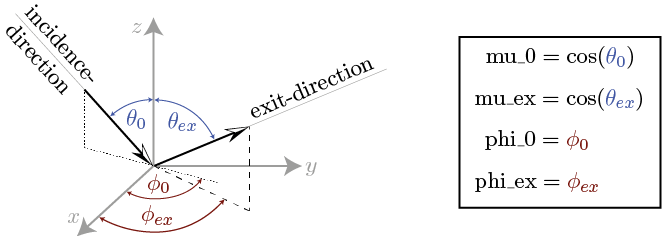
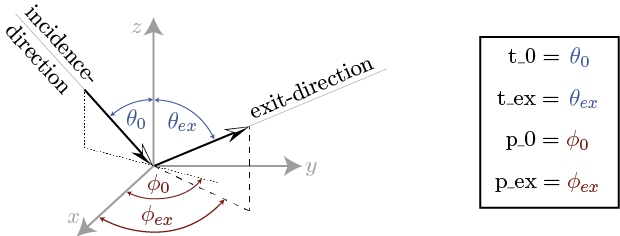
updates on model_specification and theory chapters

diff --git a/doc/theory.rst b/doc/theory.rst
@@ -1,12 +1,12 @@
 Theory
 ======
 
-The rt1 module provides a method for calculating the scattered radiation from a 
+The RT1 module provides a method for calculating the scattered radiation from a 
 uniformly illuminated rough surface covered by a homogeneous layer of tenuous media.
 The following sections are intended to give a general overview of the underlying theory of the
-rt1 module. A more general discussion on the derivation of the used results can be found in [QuWa16]_.
+RT1 module. A more general discussion on the derivation of the used results can be found in [QuWa16]_.
 Details on how to define the scattering properties of the covering layer and the ground surface
-within the rt1-module are given in :ref:`cha_model_specification`.
+within the RT1-module are given in :ref:`cha_model_specification`.
 
 
 
@@ -14,8 +14,8 @@ The utilized theoretical framework is based on applying the Radiative Transfer E
 the geometry shown in :numref:`problem_geometry`.
 
 .. math::
-   \cos(\theta) \frac{\partial I_f(\textbf{r},\theta,\phi)}{\partial r} = -\kappa_{ex} I_f(\textbf{r},\theta,\phi)
-   + \kappa_s \int\limits_{0}^{2\pi}\int\limits_{0}^{\pi/2} I_f(\textbf{r},\theta',\phi') \hat{p}(\theta,\phi,\theta',\phi') \sin(\theta')d\theta' d\phi'
+   \cos(\theta) \frac{\partial I_f(r,\theta,\phi)}{\partial r} = -\kappa_{ex} I_f(r,\theta,\phi)
+   + \kappa_s \int\limits_{0}^{2\pi}\int\limits_{0}^{\pi/2} I_f(r,\theta',\phi') \hat{p}(\theta,\phi,\theta',\phi') \sin(\theta') d\theta' d\phi'
    :label: RTE
 
 
@@ -23,10 +23,21 @@ The individual variables are hereby defined as follows:
 
 - :math:`\theta` denotes the azimuth angle in a spherical coordinate system
 - :math:`\phi` denotes the polar angle in a spherical coordinate system
-- :math:`\mathbf{r}` denotes the distance-vector within the covering layer
-- :math:`I_f(\textbf{r},\theta,\phi)` denotes the specific intensity at a distance :math:`\mathbf{r}` within the covering layer propagating in direction :math:`(\theta,\phi)`.
+- :math:`r` denotes the distance within the covering layer
+- :math:`I_f(r,\theta,\phi)` denotes the specific intensity at a distance :math:`r` within the covering layer propagating in direction :math:`(\theta,\phi)`.
 - :math:`\kappa_{ex}` denotes the extinction-coefficient (i.e. extinction cross section per unit volume)
 - :math:`\hat{p}(\theta,\phi,\theta',\phi')` denotes the scattering phase-function of the constituents of the covering layer
+
+.. note::
+	To remain consistent with [QuWa16]_, the arguments of the functions :math:`\hat{p}(\theta,\phi,\theta',\phi')` and :math:`BRDF(\theta,\phi,\theta',\phi')` are defined as angles 
+	with respect to a spherical coordinate system in the following discussion. Within the RT1-module however, the functions are defined with respect to the associated zenith-angles!
+ 
+	A relationship between the module-functions and the functions within the subsequent discussion is therefore given by:
+ 
+	:code:`SRF.BRDF(t_0,t_ex,p_0,p_ex)` :math:`\hat{=} ~BRDF(\pi - \theta_0, \phi_0, \theta_{ex},\phi_{ex}) \quad` and :math:`\mbox{}\quad` :code:`V.p(t_0,t_ex,p_0,p_ex)` :math:`\hat{=} ~\hat{p}(\pi - \theta_0, \phi_0, \theta_{ex},\phi_{ex})`
+
+ 
+
 
 Problem Geometry and Boundary Conditions
 -----------------------------------------
@@ -36,10 +47,10 @@ Problem Geometry and Boundary Conditions
 .. figure:: _static/problem_geometry.png
    :align: center
    :width: 40%
-   :alt: geometry applied to the rt1 module
+   :alt: geometry applied to the RT1 module
    :figwidth: 100%
 
-   Illustration of the chosen geometry within the rt1-module (adapted from [QuWa16]_)
+   Illustration of the chosen geometry within the RT1-module (adapted from [QuWa16]_)
 
 
 As shown in :numref:`problem_geometry`, the considered problem geometry is defined as a rough surface covered by a homogeneous layer of a scattering and absorbing medium.
@@ -102,19 +113,19 @@ where :math:`R(\theta,\phi)` denotes the **Directional-Hemispherical Reflectance
 First-order solution to the RTE
 --------------------------------
 
-Incorporating the above specifications, a solution to the RTE is obtained by assuming that the scattering coefficient :math:`\kappa_s` of the covering layer is small (i.e. :math:`\kappa_s\ll 1`)
+Incorporating the above specifications, a solution to the RTE is obtained by assuming that the scattering coefficient :math:`\kappa_s` of the covering layer is small (i.e. :math:`\kappa_s\ll 1`).
 Using this assumption, the RTE is expanded into a series with respect to powers of :math:`\kappa_s`, given by:
 
 .. math::
    I^+ = I_{\textrm{surface}} + I_{\textrm{volume}} + I_{\textrm{interaction}} + (I_{svs}) + \mathcal{O}(\kappa_s^2)
 
-where the individual terms can be interpreted as follows:
+where the individual terms (representing the contributions to the scattered intensity at the top of the covering layer)  can be interpreted as follows:
 
 - :math:`I_{\textrm{surface}}`:  radiation scattered once by the ground surface
 - :math:`I_{\textrm{volume}}`: radiation scattered once within the covering layer
 - :math:`I_{\textrm{interaction}}`: radiation scattered once by the ground surface and once within the covering layer
 - :math:`I_{svs}`: radiation scattered twice by the ground surface and once within the covering layer
-   (This contribution is assumed to be negligible due to second order surface-scattering) 
+      (This contribution is assumed to be negligible due to the occurrence of second order surface-scattering) 
 
 After some algebraic manipulations the individual contributions are found to be given by (details can be found in [QuWa16]_):
 
@@ -139,15 +150,19 @@ In order to analytically evaluate the remaining integral appearing in the intera
 Legendre-series in a (possibly generalized) scattering angle of the form:
 
 .. math::
-   BRDF(\theta_0, \phi_0, \theta_{ex}, \phi_{ex}) = \sum_{n=0}^{N_b} b_n P_n(\cos(\Theta_{a_b})) 
-   
-.. math::
-   \hat{p}(\theta_0, \phi_0, \theta_{ex}, \phi_{ex}) = \sum_{n=0}^{N_p} p_n P_n(\cos(\Theta_{a_p})) 
+   BRDF(\theta, \phi, \theta_{s}, \phi_{s}) = \sum_{n=0}^{N_b} b_n P_n(\cos(\Theta_{a_b})) 
+   :label: brdf_expansion
 
+.. math::
+   \hat{p}(\theta, \phi, \theta_{s}, \phi_{s}) = \sum_{n=0}^{N_p} p_n P_n(\cos(\Theta_{a_p})) 
+   :label: p_expansion
+   
 where :math:`P_n(x)` denotes the :math:`\textrm{n}^\textrm{th}` Legendre-polynomial and the generalized scattering angle :math:`\Theta_a` is defined via:
 
 .. math::
-   \cos(\Theta_a) = a_0 \cos(\theta_0) \cos(\theta_s) + \sin(\theta_0) \sin(\theta_s) \left[a_1 \cos(\phi_0) \cos(\phi_s) + a_2 \sin(\phi_0) \sin(\phi_s)  \right]
+   \cos(\Theta_a) = a_0 \cos(\theta) \cos(\theta_{s}) + \sin(\theta) \sin(\theta_{s}) \left[a_1 \cos(\phi) \cos(\phi_{s}) + a_2 \sin(\phi) \sin(\phi_{s})  \right]
+where :math:`\theta ,\phi` are the polar- and azimuth-angles of the incident radiation, :math:`\theta_{s}, \phi_{s}` are the polar- and azimuth-angles of the scattered radiation and :math:`a_1,a_2` and :math:`a_3`
+are constants that allow consideration of off-specular and anisotropic effects within the approximations.
 
  
 Once the :math:`b_n` and :math:`p_n` coefficients are known, the method developed in [QuWa16]_ is used to analytically solve :math:`I_{\textrm{interaction}}`.
@@ -157,11 +172,12 @@ This is done in two steps:
 First, the so-called fn-coefficients are evaluated which are defined via:
 
 .. math::
-   fn = blablabla
-   
-Second, :math:`I_{\textrm{interaction}}` is evaluated using an analytic solution to the remaining :math:`\theta`-integral.
+   \int_{0}^{2\pi} \hat{p}(\theta_0,\phi_0,\theta,\phi)BRDF(\pi - \theta, \phi, \theta_{ex},\phi_{ex}) d\phi  = \sum_{n=0}^{N_b + N_p} f_n(\theta_0,\phi_0,\theta_{ex},\phi_{ex}) \cos(\theta)^n
+   :label: fn_coef_definition
 
+Second, :math:`I_{\textrm{interaction}}` is evaluated using the analytic solution to the remaining :math:`\theta`-integral for a given set of fn-coefficients as presented in [QuWa16]_.
+ 
  
  
 .. rubric:: References
-.. [QuWa16]  Raphael Quast and Wolfgang Wagner, "Analytical solution for first-order scattering in bistatic radiative transfer interaction problems of layered media," Appl. Opt. 55, 5379-5386 (2016) 
+.. [QuWa16]  R.Quast and W.Wagner, "Analytical solution for first-order scattering in bistatic radiative transfer interaction problems of layered media," Appl.Opt.55, 5379-5386 (2016) 

diff --git a/doc/model_specification.rst b/doc/model_specification.rst
@@ -8,9 +8,12 @@ Evaluation Geometries
 .. role:: latex(raw)
    :format: latex
 
-In order to speed up the evaluation-process, the the geometry at which
-the results are being evaluated must be specified. The geometry is defined by the value of the
-:code:`geometry`-parameter of the RT1-class object:
+From the general definition of the fn-coefficients :eq:`fn_coef_definition` it is apparent that they are in principle dependent on :math:`\theta_0,\phi_0,\theta_{ex}` and :math:`\phi_{ex}`.
+If the series-expansions (:eq:`brdf_expansion` and :eq:`p_expansion`) contain a high number of Legendre-polynomials, the resulting fn-coefficients turn out to be rather lengthy and moreover their evaluation might consume a lot of time.
+Since usually one is only interested in an evaluation with respect to a specific (a-priori known) geometry of the measurement-setup, the rt1-module incorporates a parameter that allows specifying the 
+geometry at which the results are being evaluated. This generally results in a considerable speedup for the fn-coefficient generation.
+
+The measurement-geometry is defined by the value of the :code:`geometry`-parameter of the RT1-class object:
 
 .. code::
 
@@ -61,10 +64,10 @@ The module is set to be evaluated at monostatic geometry by setting:
 
 
 
-**Notice:**
-	- If :code:`geometry` is set to :code:`'mono'`, the values of :code:`mu_ex` and :code:`phi_ex` have no effect on the calculated results since they are automatically set to :code:`mu_ex = mu_0` and :code:`phi_ex = phi_0 + Pi`
-	- For azimuthally symmetric phase-functions [#]_, the value of :code:`phi_0` has no effect
-	  on the calculated result and the best performance will be achieved by setting :code:`phi_0 = 0.`
+.. note::
+	- If :code:`geometry` is set to :code:`'mono'`, the values of :code:`t_ex` and :code:`p_ex` have no effect on the calculated results since they are automatically set to :code:`t_ex = t_0` and :code:`p_ex = p_0 + Pi`
+	- For azimuthally symmetric phase-functions [#]_, the value of :code:`p_0` has no effect
+	  on the calculated result and the best performance will be achieved by setting :code:`p_0 = 0.`
 
 
 .. [#] This referrs to any phase-function whose generalized scattering angle parameters satisfy :code:`a[0] = ?, a[1] == a[2] = ?`. The reason for this simplification stems from the fact that the azimuthal dependency of a generalized scattering angle with :code:`a[1] == a[2]` can be expressed in terms of :math:`\cos(\phi_0 - \phi_{ex})^n`. For the monostatic geometry this reduces to :math:`\cos(\pi)^n = 1` independent of the choice of :math:`\phi_0`.
@@ -81,10 +84,10 @@ the properties of the incidence- and exit angles (see :numref:`evaluation_angles
 
 .. code::
 
-	geometry[0] ...	mu_0
-	geometry[1] ... mu_ex
-	geometry[2] ... phi_0
-	geometry[3] ... phi_ex
+	geometry[0] ...	t_0
+	geometry[1] ... t_ex
+	geometry[2] ... p_0
+	geometry[3] ... p_ex
 
 
 - The character :code:`'f'` indicates a **fixed** angle
@@ -102,7 +105,7 @@ the properties of the incidence- and exit angles (see :numref:`evaluation_angles
 As an example, the choice :code:`geometry = 'fvfv'` represents a measurement setup where the surface is illuminated at
 constant (polar- and azimuth) incidence-angles and the location of the receiver is variable both in azimuth- and polar direction.
 
-**Notice:**
+.. note::
 	- Whenever a single angle is set *fixed*, the calculated fn-coefficients are only valid for this specific choice!
 	- If the chosen scattering-distributions reqire an approximation with a high degree of Legendre-polynomials, evaluating
 	  the interaction-contribution with :code:`geometry = 'vvvv'` might take considerable time since the resulting fn-coefficients
